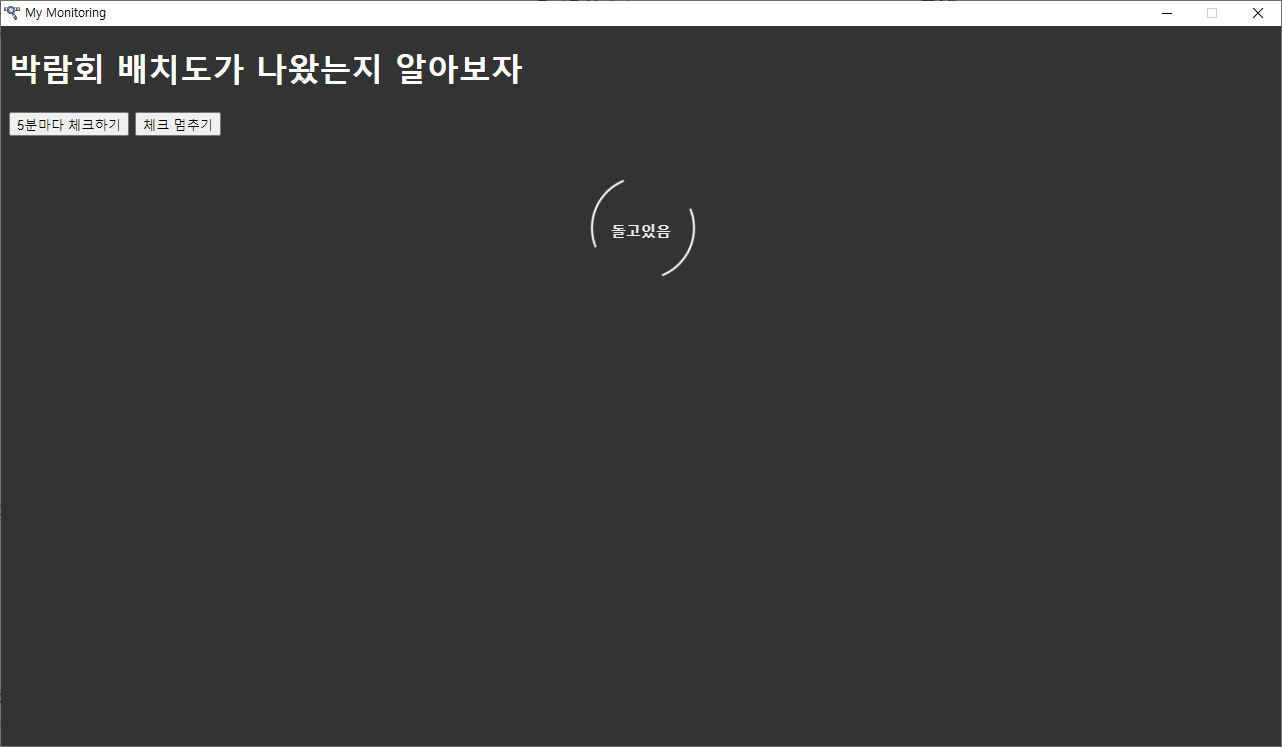
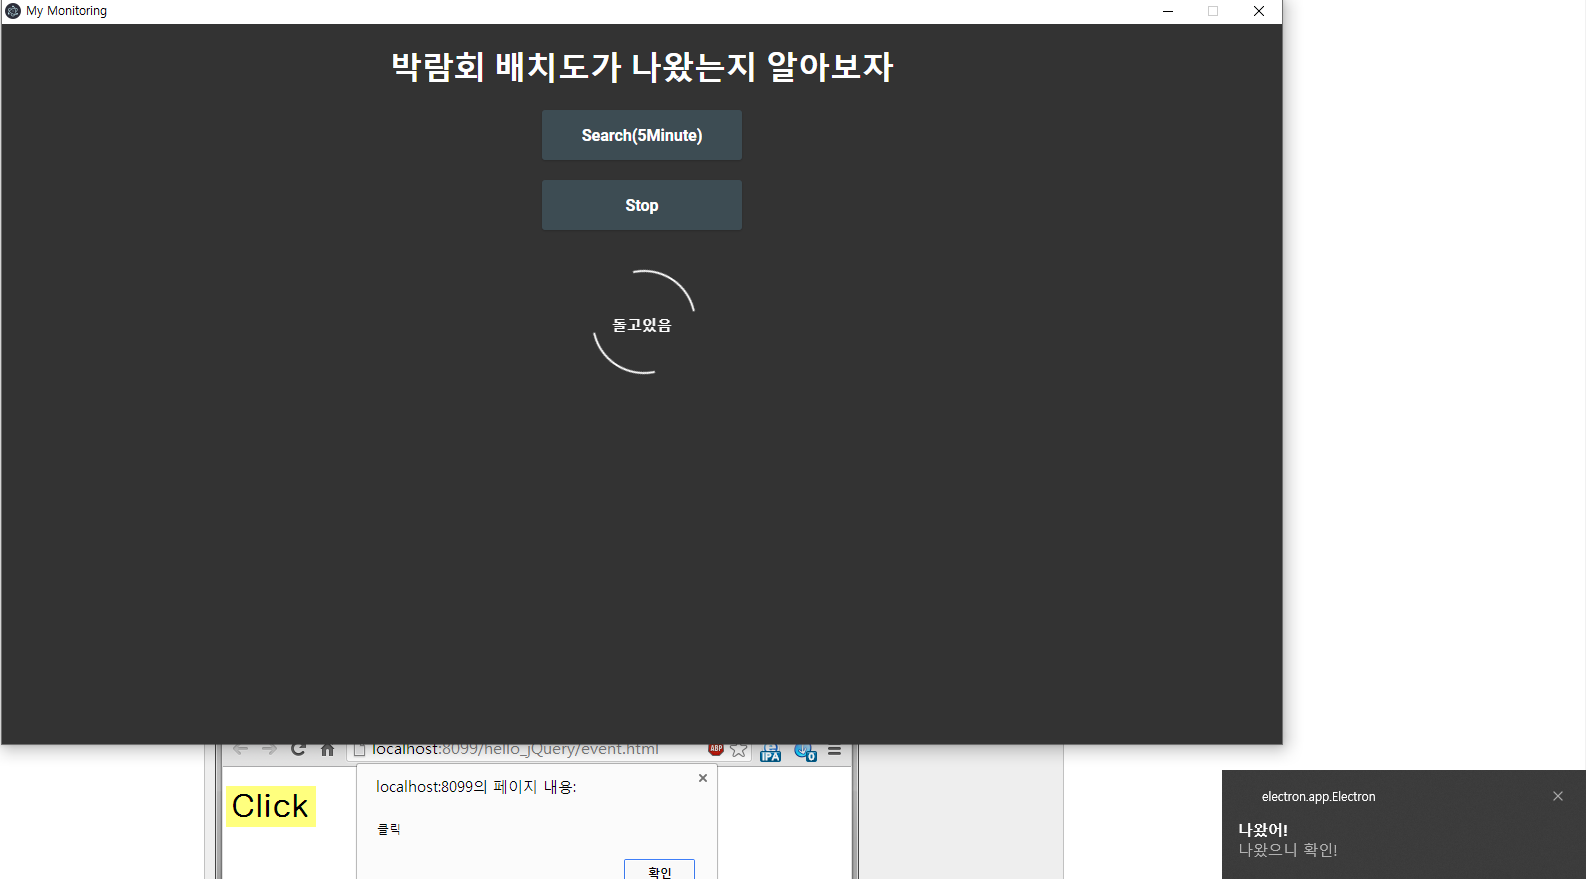
v1.0.0 완료

diff --git a/client/client.js b/client/client.js
@@ -1,17 +1,14 @@
-const publicVapidKey =
-  "BHTc8i7mrs0-bcmRoeUwGf1IUs_anj_BmCUfuu5negCGlo4en70vga4XH3KnbPfreFFG9Bzn7_XCtkYCGlRIYVc";
-
 // Check for service worker
 var checkFlag = 0;
 var myinterval = null;
-send();
+send("start");
 
 async function start() {
   var loading = document.getElementById("loading");
   loading.style.display = "block";
   loading.style.visibility = "visible";
 
-  send();
+  send("start");
 }
 
 // 반복 멈춤
@@ -19,25 +16,36 @@ async function stop() {
   var loading = document.getElementById("loading");
   loading.style.display = "block";
   loading.style.visibility = "hidden";
+  send("stop");
   console.log("stop!");
 }
 
 // 서비스워커 등록, 푸쉬 등록, 푸쉬 보내기
-function send() {
-  const pushsub = {
-    userVisibleOnly: true,
-    applicationServerKey: publicVapidKey,
-  };
+function send(state) {
+  const body = { state: state };
 
-  // 푸쉬 보내기
-  console.log("푸쉬 보내기");
-  fetch("http://localhost:5000/subscribe", {
-    method: "POST",
-    body: JSON.stringify(pushsub),
-    headers: {
-      "content-type": "application/json",
-    },
-  })
-    .then((response) => console.log(response))
-    .catch((e) => console.log(e));
+  if (state == "start") {
+    // 푸쉬 보내기
+    console.log("푸쉬 보내기");
+    fetch("http://localhost:5000/subscribe", {
+      method: "POST",
+      body: JSON.stringify(body),
+      headers: {
+        "content-type": "application/json",
+      },
+    })
+      .then((response) => console.log(response))
+      .catch((e) => console.log(e));
+  } else {
+    console.log("멈춰!");
+    fetch("http://localhost:5000/stop", {
+      method: "POST",
+      body: JSON.stringify(body),
+      headers: {
+        "content-type": "application/json",
+      },
+    })
+      .then((response) => console.log(response))
+      .catch((e) => console.log(e));
+  }
 }

diff --git a/client/index.html b/client/index.html
@@ -5,23 +5,56 @@
   <meta charset="UTF-8" />
   <meta http-equiv="X-UA-Compatible" content="IE=edge" />
   <meta name="viewport" content="width=device-width, initial-scale=1.0" />
+  <link rel="stylesheet" type="text/css" href="button.css">
   <script src="client.js"></script>
+
   <title>My Monitoring</title>
 </head>
 
 <body>
   <h1>박람회 배치도가 나왔는지 알아보자</h1>
-  <button onclick="return start()">5분마다 체크하기</button>
-  <button onclick="return stop()">체크 멈추기</button>
+  <div class="button" id="start">
+    <p type="button" class="btnText">Search(5Minute)</p>
+    <div class="btnTwo">
+      <p class="btnText2">Go!</p>
+    </div>
+  </div>
+  <div class="button" id="stop">
+    <p type="button" class="btnText">Stop</p>
+    <div class="btnThree">
+      <p class="btnText2">X</p>
+    </div>
+  </div>
+  <div id="result" class="result"></div>
 </body>
 
-<div id="loading" style="display:none" class="loading-container">
+<div id="loading" class="loading-container">
   <div class="loading"></div>
   <div id="loading-text" style="font-size:15px">돌고있음</div>
 </div>
 
+<script>
+  document.getElementById("start").onclick = function () {
+    return start();
+  };
+  document.getElementById("stop").onclick = function () {
+    return stop();
+  };
+</script>
 
 <style>
+  .w-btn {
+    position: relative;
+    border: none;
+    display: inline-block;
+    padding: 15px 30px;
+    border-radius: 15px;
+    font-family: "paybooc-Light", sans-serif;
+    box-shadow: 0 15px 35px rgba(0, 0, 0, 0.2);
+    text-decoration: none;
+    font-weight: 600;
+    transition: 0.25s;
+}
   #link {
     color: #E45635;
     display: block;

diff --git a/client/button.css b/client/button.css
@@ -1,0 +1,70 @@
+@import url(https://fonts.googleapis.com/css?family=Roboto:700);
+html, body{font-family : Roboto; text-align: center;}
+
+#holder{
+  -moz-user-select: -moz-none;
+  -khtml-user-select: none;
+  -webkit-user-select: none;
+  background: white;
+  padding: 10px;
+  width: 250px;
+  margin: 0 auto;
+  position: relative;
+  top: 50%;
+  transform: translateY(-65%);
+  box-shadow: 0px 3px 8px rgba(0,0,0,0.25);
+  border-radius: 2px;
+}
+.button {
+  background: #3D4C53;
+  margin : 20px auto;
+  width : 200px;
+  height : 50px;
+  overflow: hidden;
+  text-align : center;
+  transition : .2s;
+  cursor : pointer;
+  border-radius: 3px;
+  box-shadow: 0px 1px 2px rgba(0,0,0,.2);
+}
+.btnTwo {
+  position : relative;
+  width : 200px;
+  height : 100px;
+  margin-top: -100px;
+  padding-top: 2px;
+  background : #26A69A;
+  left : -250px;
+  transition : .3s;
+}
+.btnText {
+  color : white;
+  transition : .3s;
+}
+.btnText2 {
+  margin-top : 63px;
+  margin-right : -130px;
+  color : #FFF;
+}
+.btnThree {
+  position : relative;
+  width : 200px;
+  height : 100px;
+  margin-top: -100px;
+  padding-top: 2px;
+  background : #a62626;
+  left : -250px;
+  transition : .3s;
+}
+.button:hover .btnTwo{ /*When hovering over .button change .btnTwo*/
+  left: -130px;
+}
+.button:hover .btnThree{ /*When hovering over .button change .btnTwo*/
+  left: -130px;
+}
+.button:hover .btnText{ /*When hovering over .button change .btnText*/
+  margin-left : 65px;
+}
+.button:active { /*Clicked and held*/
+  box-shadow: 0px 5px 6px rgba(0,0,0,0.3);
+}

diff --git a/index.js b/index.js
@@ -13,12 +13,10 @@ app.use(bodyParser.json());
 
 // Subscribe Route
 app.post("/subscribe", async (req, res) => {
-  const subscription = req.body;
-
   var thisCondtion = "";
+  var i = 0;
   while (thisCondtion != "yes") {
     thisCondtion = await conf.isComeOut();
-    console.log(thisCondtion);
     if (thisCondtion == "yes") {
       console.log("clear!");
       showNotification("나왔어!", "나왔으니 확인!");
@@ -34,10 +32,16 @@ app.get("/test", (req, res) => {
   res.send("Test Start");
 });
 
+let timer;
 // 팀장님이 만드신 함수 가져다 썼음.
 const sleep = function (ms) {
-  return new Promise((resolve) => setTimeout(resolve, ms));
+  return new Promise((resolve) => (timer = setTimeout(resolve, ms)));
 };
+
+app.post("/stop", async (req, res) => {
+  console.log(req.body.state);
+  clearTimeout(timer);
+});
 
 function showNotification(title, body) {
   const n = new Notification({
